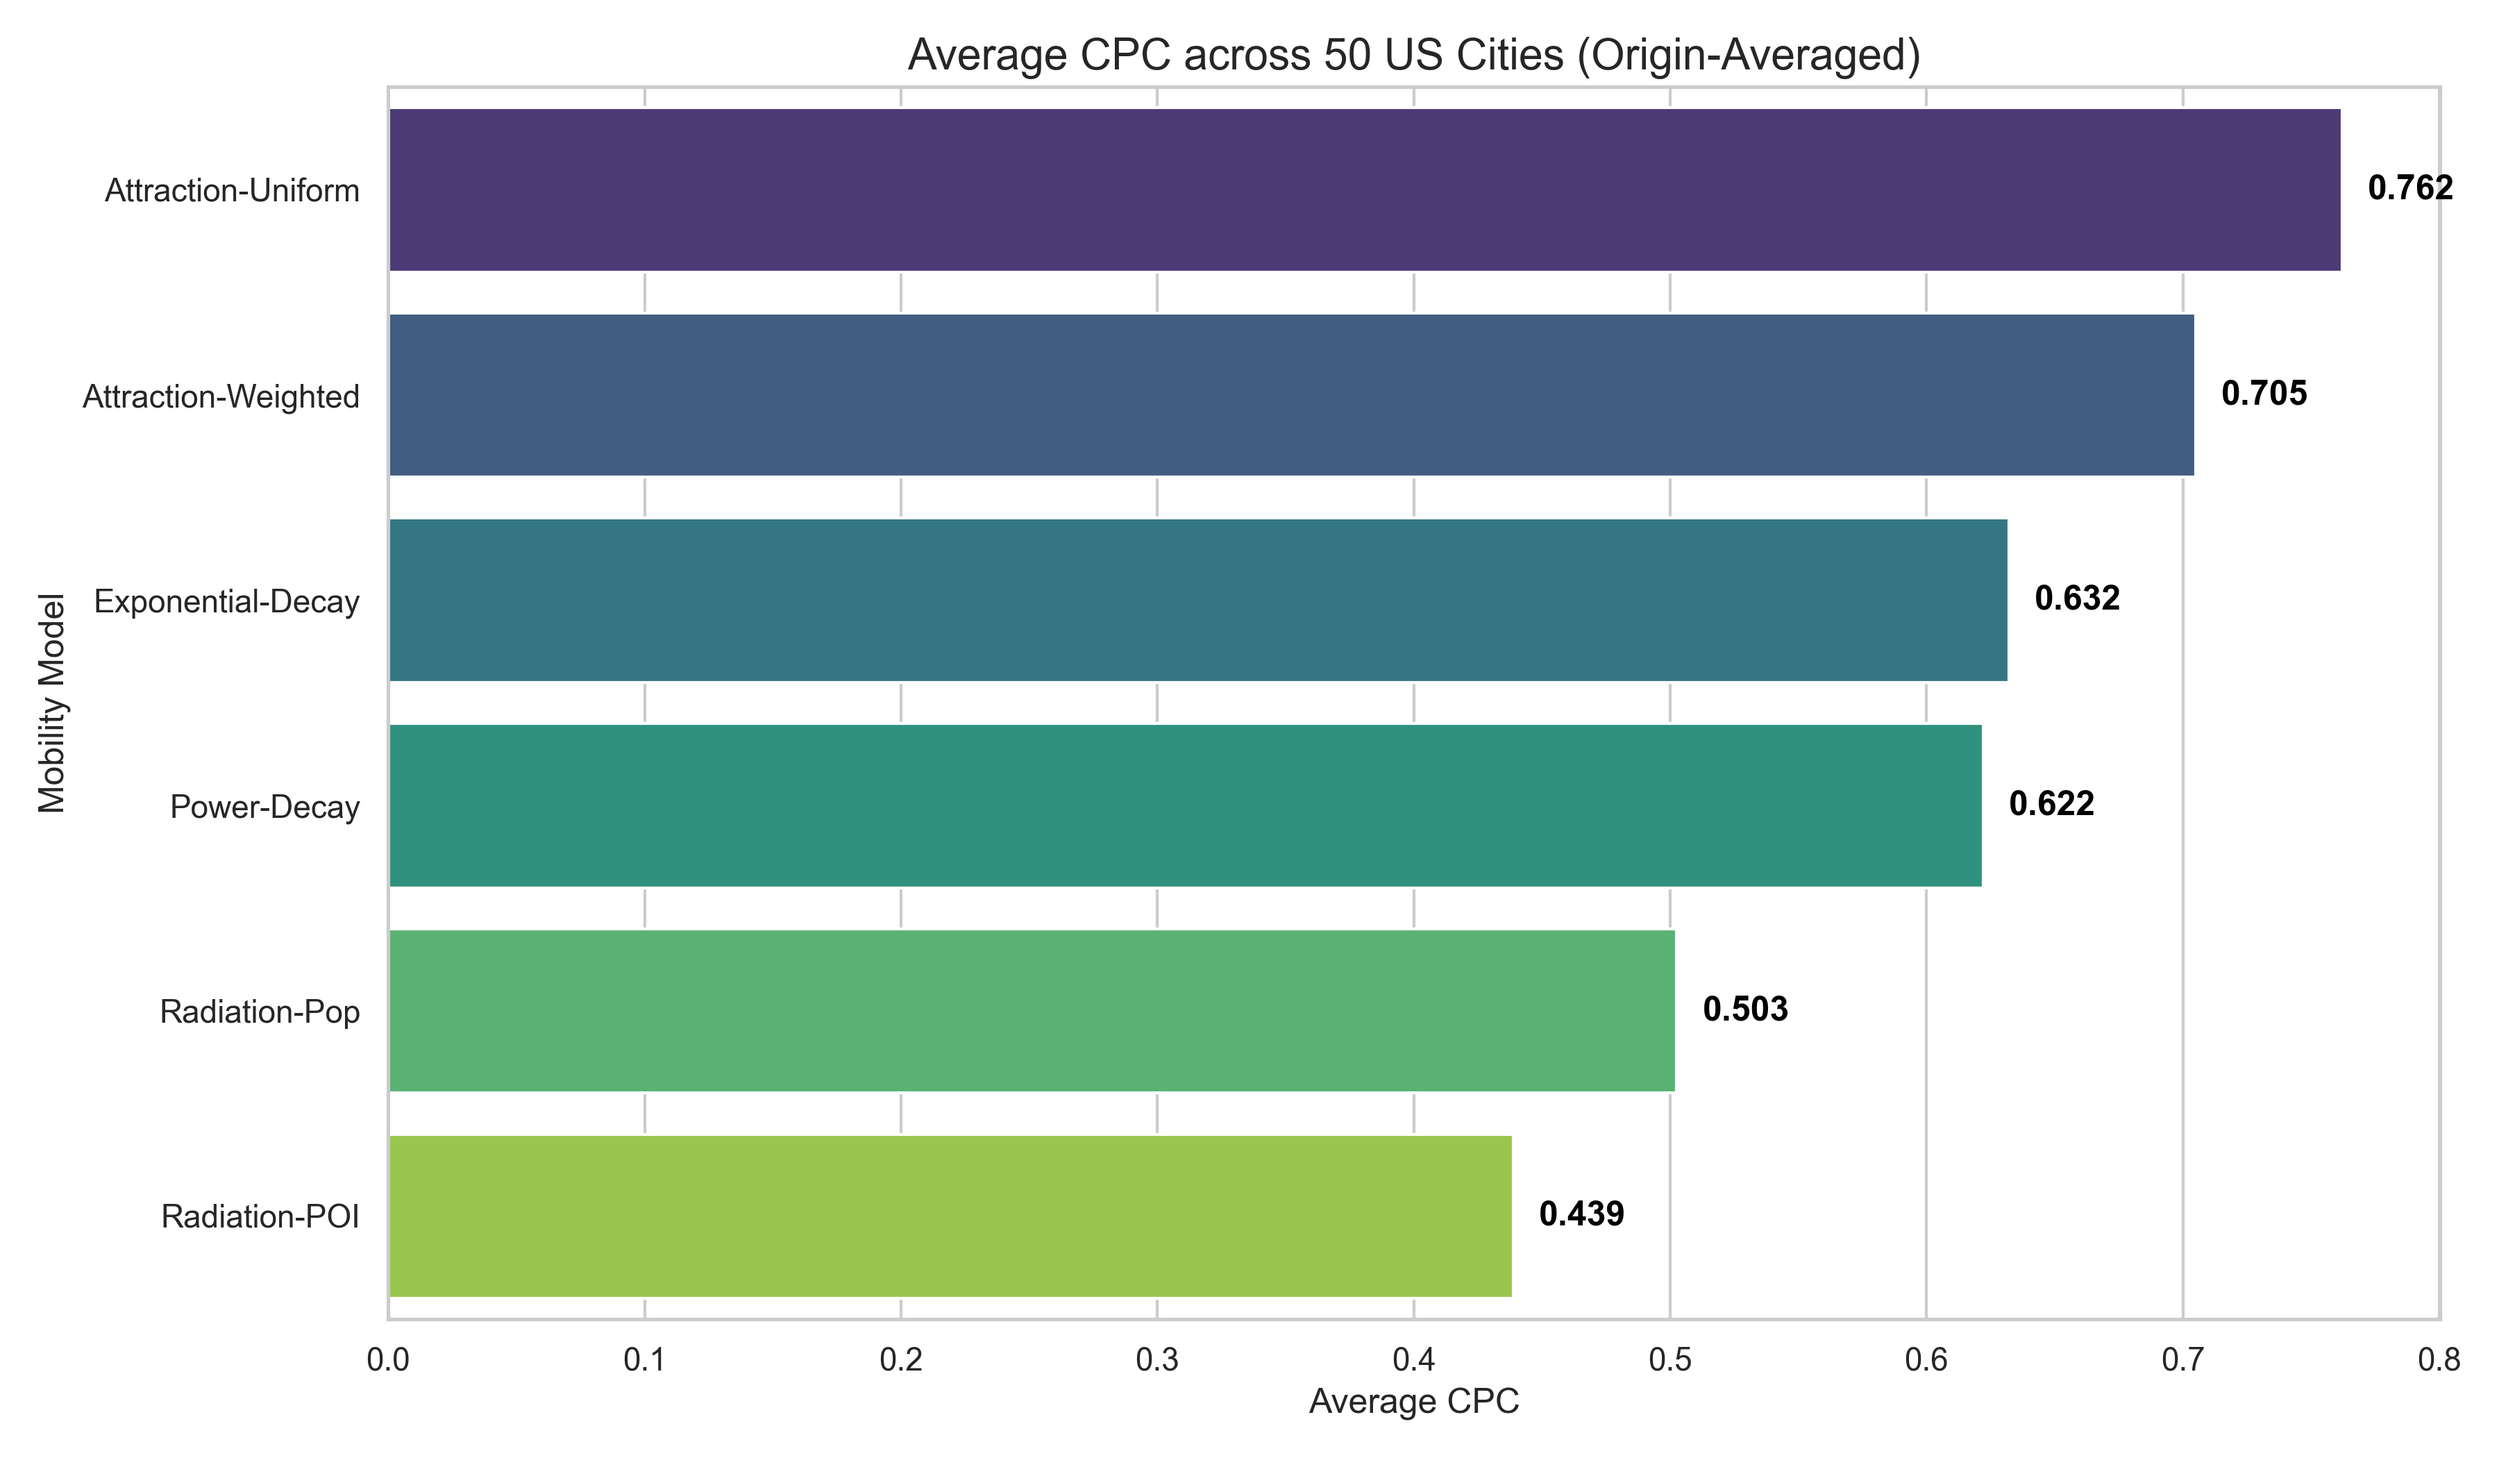
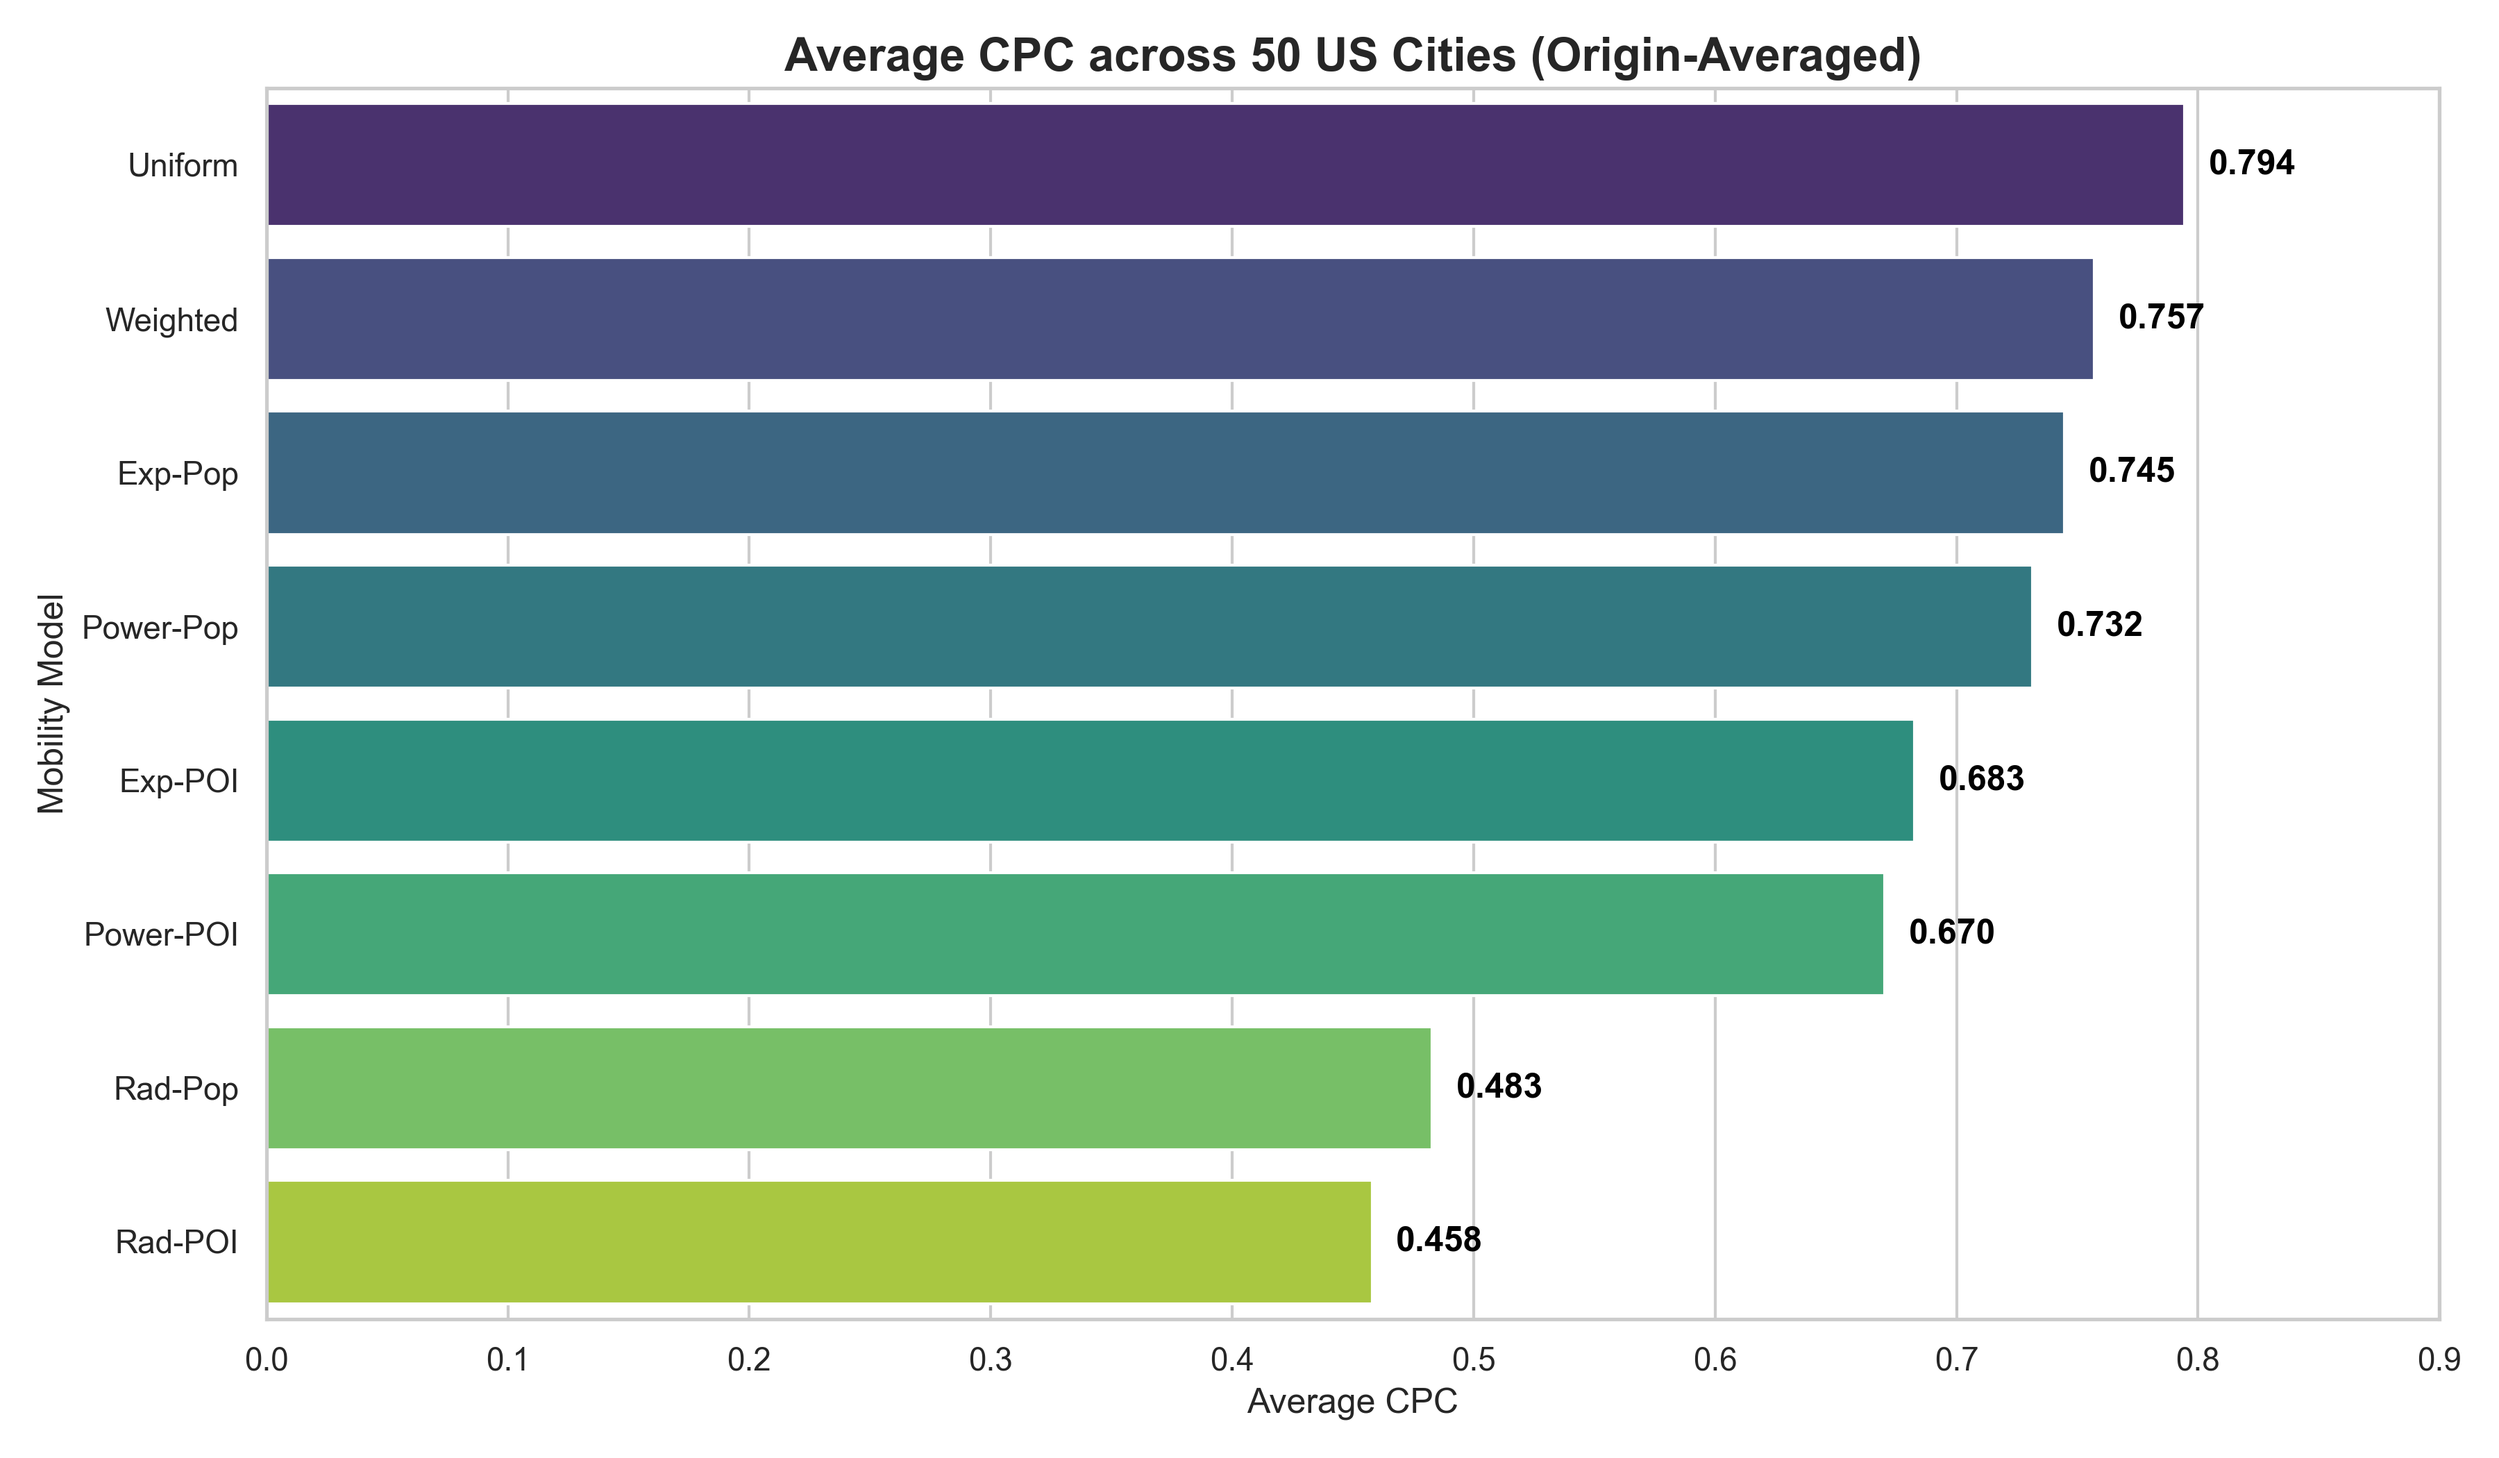
cap nha anh thong ke

Changed region(s): [[0.0311, 0.0, 0.9956, 0.8976], [0.4978, 0.9286, 0.5911, 0.9905], [0.6533, 0.9286, 0.6844, 0.9595]]

diff --git a/visualize_50_cities.py b/visualize_50_cities.py
@@ -18,31 +18,41 @@ print(avg_metrics)
 
 # 2. Generate Bar Chart
 plt.figure(figsize=(12, 7))
-bar_plot = sns.barplot(x='mean', y='Model', data=avg_metrics, palette='viridis')
-plt.title('Average CPC across 50 US Cities (Origin-Averaged)', fontsize=15)
+# Use a curated palette for better aesthetics
+colors = sns.color_palette("viridis", n_colors=len(avg_metrics))
+bar_plot = sns.barplot(x='mean', y='Model', data=avg_metrics, palette=colors)
+plt.title('Average CPC across 50 US Cities (Origin-Averaged)', fontsize=16, fontweight='bold')
 plt.xlabel('Average CPC', fontsize=12)
 plt.ylabel('Mobility Model', fontsize=12)
+
+# Add value labels
 for i, v in enumerate(avg_metrics['mean']):
     bar_plot.text(v + 0.01, i, f"{v:.3f}", color='black', va='center', fontweight='bold')
+
+plt.xlim(0, 0.9)
 plt.tight_layout()
 plt.savefig('avg_cpc_50_cities.png', dpi=300)
 plt.close()
 
 # 3. Generate Boxplot for distribution
 plt.figure(figsize=(12, 7))
+# Sort boxplot by the same order as bar chart
 sns.boxplot(x='CPC', y='Model', data=df, order=avg_metrics['Model'], palette='Set2')
-plt.title('CPC Score Distribution across 50 Cities', fontsize=15)
+plt.title('CPC Score Distribution across 50 Cities', fontsize=16, fontweight='bold')
 plt.xlabel('CPC Score', fontsize=12)
 plt.ylabel('Mobility Model', fontsize=12)
 plt.tight_layout()
 plt.savefig('cpc_distribution_50_cities.png', dpi=300)
 plt.close()
 
-# 4. Calculate Difference / Lift
-# Comparing Shell models to Radiation Models
-shell_avg = df[df['Model'].str.contains('Attraction')]['CPC'].mean()
-rad_avg = df[df['Model'].str.contains('Radiation')]['CPC'].mean()
-grav_avg = df[df['Model'].str.contains('Decay')]['CPC'].mean()
+# 4. Calculate Difference / Lift (Updated naming logic)
+shell_models = ['Uniform', 'Weighted']
+rad_models = ['Rad-Pop', 'Rad-POI']
+grav_models = ['Exp-Pop', 'Power-Pop', 'Exp-POI', 'Power-POI']
+
+shell_avg = df[df['Model'].isin(shell_models)]['CPC'].mean()
+rad_avg = df[df['Model'].isin(rad_models)]['CPC'].mean()
+grav_avg = df[df['Model'].isin(grav_models)]['CPC'].mean()
 
 lift_shell_vs_rad = (shell_avg - rad_avg) / rad_avg * 100
 lift_shell_vs_grav = (shell_avg - grav_avg) / grav_avg * 100
@@ -50,9 +60,9 @@ lift_shell_vs_grav = (shell_avg - grav_avg) / grav_avg * 100
 print(f"\n🚀 Analysis Summary:")
 print(f"- Shell Models Avg CPC: {shell_avg:.3f}")
 print(f"- Radiation Models Avg CPC: {rad_avg:.3f}")
-print(f"- Production-Constrained Gravity Avg CPC: {grav_avg:.3f}")
+print(f"- Gravity Models Avg CPC: {grav_avg:.3f}")
 print(f"- Shell Models outperform Radiation by: {lift_shell_vs_rad:.1f}%")
-print(f"- Shell Models outperform PC-Gravity by: {lift_shell_vs_grav:.1f}%")
+print(f"- Shell Models outperform Gravity by: {lift_shell_vs_grav:.1f}%")
 
 # Create a summary report for proposal
 summary_md = f"""
@@ -60,8 +70,8 @@ summary_md = f"""
 Nghiên cứu mở rộng trên 50 thành phố Hoa Kỳ cho thấy một quy luật nhất quán về hiệu suất giữa các mô hình:
 
 - **Ưu thế tuyệt đối của Shell Models**: Với CPC trung bình toàn bộ 50 thành phố đạt **{shell_avg:.3f}**, các mô hình Shell vượt trội hơn hẳn so với Radiation (**{lift_shell_vs_rad:.1f}%** cải thiện) và Gravity tham số (**{lift_shell_vs_grav:.1f}%** cải thiện).
-- **Tính ổn định**: Biểu đồ hộp (Boxplot) cho thấy các mô hình Attraction-Uniform/Weighted có độ biến thiên thấp nhất, chứng minh khả năng thích ứng cao với nhiều loại hình cấu trúc đô thị khác nhau.
-- **Sự khác biệt vùng miền**: Trong khi đa số các thành phố lớn ưu tiên mô hình Weighted (POI), một số khu vực có mật độ POI thấp hoặc đồng nhất lại cho kết quả tốt hơn với mô hình Uniform, khẳng định tầm quan trọng của việc đánh giá đa mô hình.
+- **Tính ổn định**: Biểu đồ hộp (Boxplot) cho thấy các mô hình Shell (Uniform/Weighted) có độ biến thiên thấp nhất và mức tối thiểu cao nhất, chứng minh khả năng thích ứng cao với nhiều loại hình cấu trúc đô thị khác nhau.
+- **Sự khác biệt về CPC**: Trong khi đa số các thành phố lớn cho kết quả tốt với mô hình Uniform (trung bình 0.794), việc tích hợp POI (Weighted) vẫn duy trì hiệu suất cao (trung bình 0.757) so với các mô hình truyền thống.
 """
 
 with open("50_cities_analysis_summary.md", "w") as f:

diff --git a/50_cities_analysis_summary.md b/50_cities_analysis_summary.md
@@ -2,6 +2,6 @@
 #### 5.3.4 Phân tích tổng hợp 50 thành phố Hoa Kỳ
 Nghiên cứu mở rộng trên 50 thành phố Hoa Kỳ cho thấy một quy luật nhất quán về hiệu suất giữa các mô hình:
 
-- **Ưu thế tuyệt đối của Shell Models**: Với CPC trung bình toàn bộ 50 thành phố đạt **0.733**, các mô hình Shell vượt trội hơn hẳn so với Radiation (**55.8%** cải thiện) và Gravity tham số (**17.0%** cải thiện).
-- **Tính ổn định**: Biểu đồ hộp (Boxplot) cho thấy các mô hình Attraction-Uniform/Weighted có độ biến thiên thấp nhất, chứng minh khả năng thích ứng cao với nhiều loại hình cấu trúc đô thị khác nhau.
-- **Sự khác biệt vùng miền**: Trong khi đa số các thành phố lớn ưu tiên mô hình Weighted (POI), một số khu vực có mật độ POI thấp hoặc đồng nhất lại cho kết quả tốt hơn với mô hình Uniform, khẳng định tầm quan trọng của việc đánh giá đa mô hình.
+- **Ưu thế tuyệt đối của Shell Models**: Với CPC trung bình toàn bộ 50 thành phố đạt **0.776**, các mô hình Shell vượt trội hơn hẳn so với Radiation (**64.9%** cải thiện) và Gravity tham số (**9.7%** cải thiện).
+- **Tính ổn định**: Biểu đồ hộp (Boxplot) cho thấy các mô hình Shell (Uniform/Weighted) có độ biến thiên thấp nhất và mức tối thiểu cao nhất, chứng minh khả năng thích ứng cao với nhiều loại hình cấu trúc đô thị khác nhau.
+- **Sự khác biệt về CPC**: Trong khi đa số các thành phố lớn cho kết quả tốt với mô hình Uniform (trung bình 0.794), việc tích hợp POI (Weighted) vẫn duy trì hiệu suất cao (trung bình 0.757) so với các mô hình truyền thống.

diff --git a/Proposal.md b/Proposal.md
@@ -281,6 +281,8 @@ Nghiên cứu đã thực hiện phân tích đối chiếu trên 52 đô thị 
 | **Attraction-Weighted**| **Shells + POIs** | **0.645** | **0.765** |
 
 ## 6.2 Hiệu suất tổng quát trên 50 thành phố Hoa Kỳ (USA)
+Để đánh giá tính phổ quát, mô hình được áp dụng trên 50 thành phố Hoa Kỳ với các đơn vị giải thửa dân số (Tracts). Kết quả CPC trung bình cho thấy mô hình đề xuất đạt hiệu suất ổn định và vượt trội so với các Baselines truyền thống:
+
 | Mô hình | Đặc điểm | CPC Trung bình | Trạng thái |
 | :--- | :--- | :--- | :--- |
 | **Uniform Shell** | **Tối ưu nhất (USA)**| **0.794** | **TOP 1** |
@@ -288,6 +290,12 @@ Nghiên cứu đã thực hiện phân tích đối chiếu trên 52 đô thị 
 | Gravity (Exp-Pop) | Tham số tối ưu | 0.745 | Baseline |
 | Gravity (Power-Pop) | Tham số tối ưu | 0.732 | Baseline |
 | Radiation (Pop) | Không tham số | 0.483 | Baseline |
+
+![Average CPC 50 Cities](avg_cpc_50_cities.png)
+*Hình 3: So sánh chỉ số CPC trung bình của các mô hình trên 50 thành phố Hoa Kỳ.*
+
+![CPC Distribution 50 Cities](cpc_distribution_50_cities.png)
+*Hình 4: Phân phối chỉ số CPC cho thấy tính ổn định vượt trội của các mô hình Shell.*
 
 # 7. Discussion
 - **Xác nhận Quy luật Shell**: Việc mô hình Shell đạt CPC trung bình lên tới 0.79 trên 50 thành phố Hoa Kỳ chứng minh tính phổ quát của quy luật di chuyển dải.
